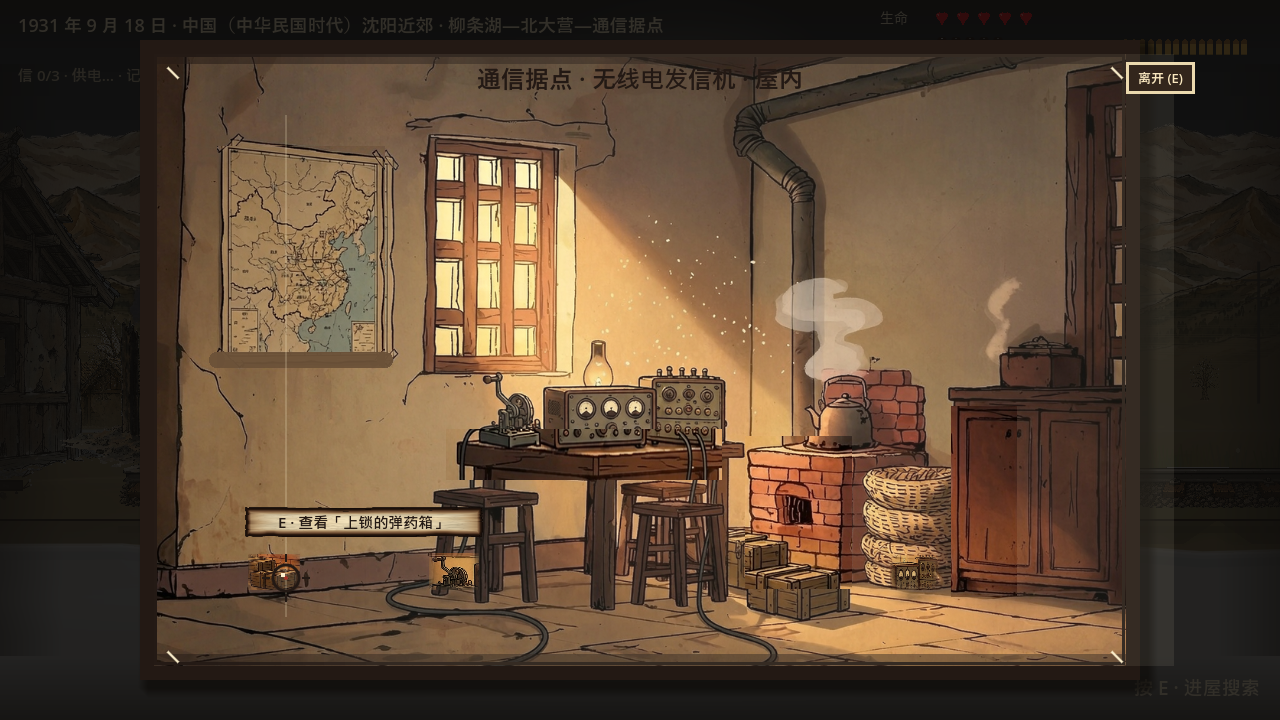
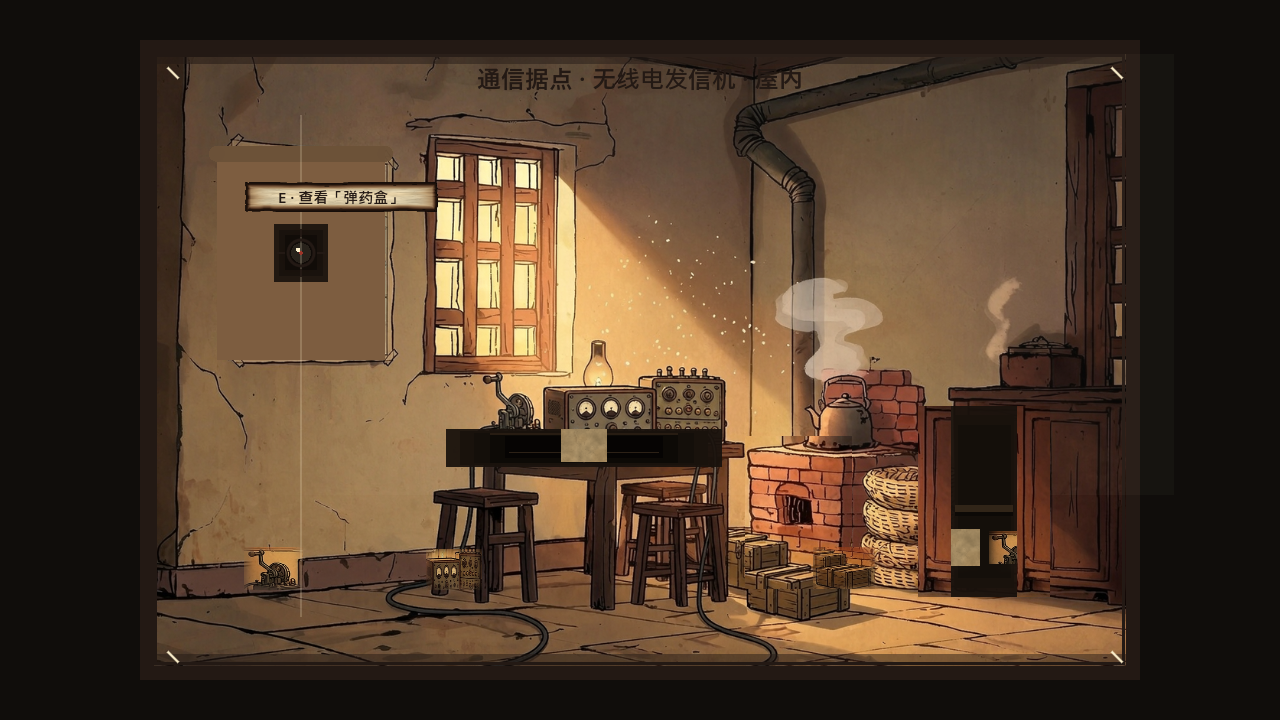
v3.95 · 室内九图反馈收口续：抽屉改 apron 内凹口（背景素木桌无独立抽屉面，不再悬桌下错位）/ 窗光降 0.5→0.18 仅刷墙 / 挂画墙色遮罩不透明去双重像 / 柜门两扇对称 / 柜内实心暗腔去淡淡四方格 / 关门不露物 / 物件放大~1.18x

diff --git a/scripts/InteriorExplore.cs b/scripts/InteriorExplore.cs
@@ -883,17 +883,17 @@ public partial class InteriorForeground : Control
     /// </summary>
     private static readonly Dictionary<string, (int sheet, int sx, int sy, int sw, int sh, float w)> IntactSpec = new()
     {
-        { "chest",   (0, 168,  10, 145, 100, 52f) },  // tile1 单个木箱
-        { "ammo",    (0, 326,  20, 140,  90, 44f) },  // tile2 小木箱
-        { "grenade", (0, 486, 246, 140,  80, 40f) },  // tile11 木箱组里的单个
-        { "letter",  (2,  96,  96, 192, 140, 42f) },  // 揉皱旧纸（v3.83 同源资产）
-        { "will",    (2,  96,  96, 192, 140, 42f) },
-        { "clue",    (2,  96,  96, 192, 140, 38f) },
-        { "gauze",   (0, 486, 126, 148,  70, 44f) },  // tile7 竹箩上沿（浅色编织，读作卷布）
-        { "medkit",  (0, 326, 246, 148,  90, 46f) },  // tile10 侧面木箱
-        { "ash",     (1,   0, 278, 160,  52, 50f) },  // v3.82 已验收的灰堆扁条
-        { "power",   (0, 166, 246, 150, 110, 48f) },  // tile9 电表
-        { "radio",   (0, 326, 246, 150, 110, 50f) },  // tile10 电台
+        { "chest",   (0, 168,  10, 145, 100, 62f) },  // tile1 单个木箱（v3.95 放大 ~1.18x）
+        { "ammo",    (0, 326,  20, 140,  90, 52f) },  // tile2 小木箱
+        { "grenade", (0, 486, 246, 140,  80, 48f) },  // tile11 木箱组里的单个
+        { "letter",  (2,  96,  96, 192, 140, 50f) },  // 揉皱旧纸（v3.83 同源资产）
+        { "will",    (2,  96,  96, 192, 140, 50f) },
+        { "clue",    (2,  96,  96, 192, 140, 46f) },
+        { "gauze",   (0, 486, 126, 148,  70, 52f) },  // tile7 竹箩上沿（浅色编织，读作卷布）
+        { "medkit",  (0, 326, 246, 148,  90, 54f) },  // tile10 侧面木箱
+        { "ash",     (1,   0, 278, 160,  52, 59f) },  // v3.82 已验收的灰堆扁条
+        { "power",   (0, 166, 246, 150, 110, 56f) },  // tile9 电表
+        { "radio",   (0, 326, 246, 150, 110, 59f) },  // tile10 电台
     };
 
     /// <summary>v3.84 信件类用的揉皱旧纸贴图（v3.83 资产，不新增美术）。</summary>
@@ -1049,59 +1049,24 @@ public partial class InteriorForeground : Control
         //    → 柜门/画心裁片。裁片在最上层：关闭时完全盖住暗格与物件 ⇒ 「不开就看不见」；
         //      OpenT 平移 + 淡出 ⇒ 开门过程中渐渐看见里面的子弹/手榴弹/遗书。
         //    旧版 Find() 只画第一件，一个柜子藏多件时后面几件永远不出现。
-        var openItems = new List<(Furniture f, RoomItem it, int k, int total)>();
+        // 逐家具分层：地落物 → 暗格（开门后露出的内部）→（柜子藏匿物，画在前脸之下）
+        // → 前脸（柜门 / 抽屉 / 挂画 / 灶面）→（抽屉 / 仓库藏匿物，画在前脸之上，落进开口内）。
+        // v3.95 关键修复：柜子藏匿物移到前脸之下 ⇒ 关门时前脸完整盖住、开门（门平移出框）后才露出，
+        // 不再「门没开却透出内部物品」（用户 #9）。抽屉 / 仓库藏匿物仍画在前脸之上，
+        // 落进抽出的抽屉盒 / 焦黑柜开口内（抽屉内物品可见，#6）。
         foreach (var f in _room.Furniture)
         {
             foreach (var it in _room.Items)
                 if (it.Mode == RoomItemMode.FloorDrop && OccludedBy(f, it))
                     DrawDropItem(it);
             DrawFurnitureBody(f, _room.WorldTime);
-            if (f.OpenT > 0.05f)
-            {
-                int total = 0;
-                foreach (var it in _room.Items)
-                    if (it.Mode == RoomItemMode.Container && it.ContainerId == f.Id) total++;
-                int k = 0;
-                foreach (var it in _room.Items)
-                {
-                    if (it.Mode != RoomItemMode.Container || it.ContainerId != f.Id) continue;
-                    openItems.Add((f, it, k, total));
-                    k++;
-                }
-            }
+            // 柜子：藏匿物画在柜门之下 —— 关门时前脸盖住、开门后露出（#9 修复）
+            if (!IsBurnt && f.Type == FurnitureType.Cabinet && f.OpenT > 0.05f)
+                DrawContainerItems(f);
             DrawFurnitureFront(f, _room.WorldTime);
-        }
-        // 容器物件统一画在最上层（门 / 抽屉 / 灶面之后），保证「开后才看见、且不被前脸盖住」。
-        // v3.93：柜子物件落底层（隔板以下）、桌子物件随抽屉下移落进抽屉内。
-        foreach (var (f, it, k, total) in openItems)
-        {
-            Vector2 rc = IsBurnt
-                ? RecessRect(f).GetCenter()
-                : InteriorForeground.RecessCenterMirrored(_room.Type, _room.Variant, f.Type);
-            int rows = Mathf.CeilToInt(total / 2f);
-            Vector2 p = rc + new Vector2(
-                (k % 2 == 0 ? -19f : 19f),
-                (k / 2 - (rows - 1) * 0.5f) * 30f);
-            // 柜子：物品落底层（隔板以下），不顶第二层底
-            if (!IsBurnt && f.Type == FurnitureType.Cabinet)
-            {
-                var cov = CoverRect(_room.Type, f.Type);
-                p.Y = rc.Y + cov.Size.Y * 0.24f;
-            }
-            // 桌子：抽屉抽出后，物品落进抽出的抽屉内（随抽屉下移）
-            if (!IsBurnt && f.Type == FurnitureType.Desk)
-            {
-                if (FrontSrc.TryGetValue((_room.Type, f.Type), out var dsrc))
-                {
-                    var dd = BgRect(dsrc);
-                    float pull = dd.Size.Y * 1.6f * f.OpenT;
-                    float boxH = dd.Size.Y * 1.35f;
-                    p.Y = dd.Position.Y + pull + boxH * 0.43f;   // 落在抽屉盒内底（与前面板抽出的抽屉盒对齐）
-                }
-            }
-            bool near = _room.NearIndex >= 0 && _room.NearIndex < _room.Items.Count
-                        && _room.Items[_room.NearIndex] == it;
-            DrawItem(it, p, near, f.OpenT);
+            // 抽屉 / 仓库：藏匿物画在前脸之上（抽屉盒 / 焦黑柜开口内），落进开口（#6）
+            if ((IsBurnt || (!IsBurnt && f.Type == FurnitureType.Desk)) && f.OpenT > 0.05f)
+                DrawContainerItems(f);
         }
 
         // 3) 不被遮挡的地落物（画在最前）
@@ -1121,6 +1086,56 @@ public partial class InteriorForeground : Control
         // 靠近物件 / 门口时的漫画风小提示牌（米黄土实色 + 3px 深墨棕粗框 + 硬投影）
         RefreshPrompt(W, H);
         RefreshResult(W, H);
+    }
+
+    /// <summary>
+    /// v3.95：画某家具内的藏匿物。柜子调用时在「前脸之下」（关门被盖住）；抽屉 / 仓库调用时
+    /// 在「前脸之上」（落进抽出的抽屉盒 / 焦黑柜开口内）。两件按物件实际绘制宽度左右错位，
+    /// 单件居中，避免放大后重叠。
+    /// </summary>
+    private void DrawContainerItems(Furniture f)
+    {
+        int total = 0;
+        foreach (var it in _room.Items)
+            if (it.Mode == RoomItemMode.Container && it.ContainerId == f.Id) total++;
+        int k = 0;
+        foreach (var it in _room.Items)
+        {
+            if (it.Mode != RoomItemMode.Container || it.ContainerId != f.Id) continue;
+            Vector2 rc = IsBurnt
+                ? RecessRect(f).GetCenter()
+                : InteriorForeground.RecessCenterMirrored(_room.Type, _room.Variant, f.Type);
+            // 两件按实际绘制宽度左右错位，单件居中；多件折行
+            float w = IntactSpec.TryGetValue(it.Kind, out var sp) ? sp.w : 44f;
+            int rows = Mathf.CeilToInt(total / 2f);
+            float spread = total <= 1 ? 0f : Mathf.Max(20f, w * 0.58f);
+            Vector2 p = rc + new Vector2((k % 2 == 0 ? -spread : spread),
+                                         (k / 2 - (rows - 1) * 0.5f) * 30f);
+            // 柜子：物品落底层（隔板以下），不顶第二层底
+            if (!IsBurnt && f.Type == FurnitureType.Cabinet)
+            {
+                var cov = CoverRect(_room.Type, f.Type);
+                p.Y = rc.Y + cov.Size.Y * 0.24f;
+            }
+            // 桌子：物品落进 apron 中央挖出的抽屉口内（与 DrawFurnitureFront 同参）
+            if (!IsBurnt && f.Type == FurnitureType.Desk)
+            {
+                if (FrontSrc.TryGetValue((_room.Type, f.Type), out var dsrc))
+                {
+                    var dd = BgRect(dsrc);
+                    float ix = dd.Position.X + dd.Size.X * 0.16f;
+                    float iw = dd.Size.X * 0.68f;
+                    float iy = dd.Position.Y + dd.Size.Y * 0.10f;
+                    float ih = dd.Size.Y * 0.80f;
+                    p.X = ix + iw * 0.5f + (k % 2 == 0 ? -spread : spread);
+                    p.Y = iy + ih * 0.42f;
+                }
+            }
+            bool near = _room.NearIndex >= 0 && _room.NearIndex < _room.Items.Count
+                        && _room.Items[_room.NearIndex] == it;
+            DrawItem(it, p, near, f.OpenT);
+            k++;
+        }
     }
 
     private void DrawDoor(float W, float H, WorldClock.Phase t)
@@ -1185,6 +1200,9 @@ public partial class InteriorForeground : Control
 
         // 局部光晕：仅在受光侧（窗户附近）做柔和的水平渐变提亮，绝不整屏均匀提亮、
         // 也绝不在墙/地上画任何离散光形。竖直细条只按 x 渐变，纵向无分条 ⇒ 读不出网格。
+        // v3.95：降低整体强度（0.5→0.18），只暗示「空气里有光」，绝不形成可见亮斑 / 网格；
+        // 且仅覆盖墙面区域（窗在上方），不向下刷亮地板，避免「怪怪的光」。
+        float lightH = H * 0.72f;
         int strips = 48;
         float colW = W / strips + 1f;
         for (int i = 0; i < strips; i++)
@@ -1192,9 +1210,9 @@ public partial class InteriorForeground : Control
             float x = i * colW;
             float d = rightWin ? (x - winX) / (W - winX) : (winX - x) / winX;
             d = Mathf.Clamp(d, 0f, 1f);
-            float a = pal.RoomWash.A * 0.5f * (1f - Mathf.SmoothStep(0f, 1f, d) * 0.96f);
+            float a = pal.RoomWash.A * 0.18f * (1f - Mathf.SmoothStep(0f, 1f, d) * 0.96f);
             if (a <= 0.003f) continue;
-            DrawRect(new Rect2(x, 0f, colW, H),
+            DrawRect(new Rect2(x, 0f, colW, lightH),
                 new Color(pal.RoomWash.R, pal.RoomWash.G, pal.RoomWash.B, a));
         }
     }
@@ -1296,9 +1314,11 @@ public partial class InteriorForeground : Control
                 float visibleH = pdst.Size.Y * (1f - f.OpenT);
                 var wallDst = new Rect2(pdst.Position.X, pdst.Position.Y + visibleH,
                                         pdst.Size.X, pdst.Size.Y - visibleH);
+                // v3.95：墙色遮罩改为不透明（alpha=1），彻底盖掉背景里那幅静止的画，
+                // 消除「挂画卷起后仍叠出双重像」的怪异感（用户 #5）。
                 Color wall = _room.Type == RoomType.CommOutpost
-                    ? new Color(0.49f, 0.366f, 0.253f, a)
-                    : new Color(0.47f, 0.358f, 0.248f, a);
+                    ? new Color(0.49f, 0.366f, 0.253f, 1f)
+                    : new Color(0.47f, 0.358f, 0.248f, 1f);
                 DrawRect(wallDst, wall);
             }
             DrawSmallNiche(r, a);
@@ -1329,7 +1349,10 @@ public partial class InteriorForeground : Control
             DrawRect(new Rect2(r.Position.X + r.Size.X * 0.06f, shelfY + sh, r.Size.X * 0.88f, sh * 0.6f),
                      new Color(0.04f, 0.03f, 0.02f, 0.8f * a));
         }
-        if (_shadowTex != null)
+        // v3.95：去掉把暗腔洗淡成「淡淡四方格」的接触阴影叠加（用户 #8：
+        // 「打开也不是这样一个四方格淡淡颜色来表示」）。暗腔保持实心深凹，读作真正敞开的柜内。
+        // 仅焚毁仓库（小暗洞）保留极轻的柔边，避免硬边方块感。
+        if (_shadowTex != null && IsBurnt)
         {
             DrawTextureRect(_shadowTex, r,     false, new Color(0.05f, 0.035f, 0.025f, 0.50f * a));
             DrawTextureRect(_shadowTex, inner, false, new Color(0.03f, 0.02f, 0.015f, 0.50f * a));
@@ -1418,42 +1441,41 @@ public partial class InteriorForeground : Control
             float wL = Mathf.Abs(freeXL - x0), xL = Mathf.Min(x0, freeXL);
             float wR = Mathf.Abs(freeXR - x1), xR = Mathf.Min(x1, freeXR);
             Rect2 dstL = new Rect2(xL, dst.Position.Y, wL, dst.Size.Y);
-            Rect2 srcL = new Rect2(src.Position.X, src.Position.Y, src.Size.X * 0.5f, src.Size.Y);
             Rect2 dstR = new Rect2(xR, dst.Position.Y, wR, dst.Size.Y);
-            Rect2 srcR = new Rect2(src.Position.X + src.Size.X * 0.5f, src.Position.Y, src.Size.X * 0.5f, src.Size.Y);
+            // v3.95：两扇门都取源图「受光」的左半扇（背景柜门木面本身左亮右暗），
+            // 右门再压一档微暗以读作对开门的另一扇，消除「一边太光一边淡淡」（用户 #3）。
+            Rect2 srcHalf = new Rect2(src.Position.X, src.Position.Y, src.Size.X * 0.5f, src.Size.Y);
             DrawSetTransformMatrix(mirror ? mirrorM : Transform2D.Identity);
-            DrawTextureRectRegion(_roomTex, dstL, srcL, new Color(1f, 1f, 1f, 1f));
-            DrawTextureRectRegion(_roomTex, dstR, srcR, new Color(1f, 1f, 1f, 1f));
+            DrawTextureRectRegion(_roomTex, dstL, srcHalf, new Color(1f, 1f, 1f, 1f));
+            DrawTextureRectRegion(_roomTex, dstR, srcHalf, new Color(0.90f, 0.87f, 0.82f, 1f));
             DrawSetTransformMatrix(Transform2D.Identity);
             return;
         }
 
         if (f.Type == FurnitureType.Desk)
         {
-            // v3.94 抽屉：面板向下抽出，露出桌体被抽走后的暗腔 + 抽出的抽屉盒（前面板 + 内底 + 拉环），
-            // 物品落进抽屉盒内底（参考用户给的「拉出抽屉、物品放在抽屉内」实拍图）。
+            // v3.95 抽屉：背景的桌/台本就是「素木桌 + 平 apron」，并没有独立抽屉面
+            // （FrontSrc 指向的正是那截平裙板）。所以不另画外凸的抽屉盒（会悬在桌下、错位），
+            // 而是把 apron 中央「挖」出一个朝内凹的抽屉口：保留两侧木边、口内为暗腔、
+            // 物品落进口内（见 DrawContainerItems）、下沿有拉环 ⇒ 读作「桌里的抽屉被拉开」。
             if (mirror) DrawSetTransformMatrix(mirrorM);
-            float pull = dst.Size.Y * 1.6f * ot;          // 抽屉抽出的位移
-            float boxH = dst.Size.Y * 1.35f;             // 抽屉盒高度
-            float x = dst.Position.X, y0 = dst.Position.Y, w = dst.Size.X;
-            // 1) 桌体被抽走后留下的暗腔（抽屉原本所在），读作「抽屉拉出来后的空缺」
-            DrawRect(new Rect2(x, y0, w, pull), new Color(0.08f, 0.06f, 0.04f, 0.9f * ot));
-            // 2) 抽出的抽屉盒：前面板 = 背景裁片（桌裙）下移 pull
-            var dDst = new Rect2(x, y0 + pull, w, boxH);
-            DrawTextureRectRegion(_roomTex, dDst, src, new Color(1f, 1f, 1f, 1f));
-            // 抽屉盒顶沿（一条略深的木色横带，区分「抽屉面」与上方暗腔）
-            DrawRect(new Rect2(x, y0 + pull, w, Mathf.Max(2f, boxH * 0.06f)), new Color(0.30f, 0.22f, 0.15f, 0.9f * ot));
-            // 抽屉内底（盒内偏上的一条暗带，读作抽屉底面，物品落其上）
-            DrawRect(new Rect2(x + w * 0.07f, y0 + pull + boxH * 0.22f, w * 0.86f, boxH * 0.42f),
-                      new Color(0.11f, 0.08f, 0.05f, 0.6f * ot));
-            // 拉环（抽屉面中央的小圆环），明确这是「可拉出的抽屉」
-            float knobY = y0 + pull + boxH * 0.62f;
-            DrawCircle(new Vector2(x + w * 0.5f, knobY), Mathf.Max(2.5f, boxH * 0.07f), new Color(0.18f, 0.13f, 0.09f, 0.9f * ot));
-            DrawCircle(new Vector2(x + w * 0.5f, knobY), Mathf.Max(1.2f, boxH * 0.035f), new Color(0.40f, 0.30f, 0.20f, 0.9f * ot));
-            // 盒底接触阴影
-            if (_shadowTex != null)
-                DrawTextureRect(_shadowTex, new Rect2(x, y0 + pull + boxH, w, boxH * 0.4f), false,
-                                new Color(0.05f, 0.035f, 0.025f, 0.45f * ot));
+            float x = dst.Position.X, y0 = dst.Position.Y, w = dst.Size.X, h = dst.Size.Y;
+            // 抽屉口：比 apron 窄、上下留木边
+            float ix = x + w * 0.16f, iw = w * 0.68f;
+            float iy = y0 + h * 0.10f, ih = h * 0.80f;
+            // 抽屉口暗腔（朝内凹的洞）
+            DrawRect(new Rect2(ix, iy, iw, ih), new Color(0.05f, 0.038f, 0.025f, 0.92f * ot));
+            DrawRect(new Rect2(ix + iw * 0.08f, iy + ih * 0.12f, iw * 0.84f, ih * 0.70f),
+                      new Color(0.025f, 0.018f, 0.012f, 0.95f * ot));
+            // 上沿木边高光 + 内底木色横带（物品落其上）
+            DrawRect(new Rect2(ix, iy, iw, ih * 0.06f), new Color(0.22f, 0.16f, 0.10f, 0.6f * ot));
+            DrawRect(new Rect2(ix + iw * 0.10f, iy + ih * 0.62f, iw * 0.80f, ih * 0.05f),
+                      new Color(0.20f, 0.15f, 0.10f, 0.85f * ot));
+            // 拉环（抽屉口下沿中央），明确这是「可拉开的抽屉」
+            float knobY = iy + ih * 0.90f;
+            float kr = Mathf.Max(2.5f, ih * 0.07f);
+            DrawCircle(new Vector2(x + w * 0.5f, knobY), kr, new Color(0.16f, 0.12f, 0.08f, 0.95f * ot));
+            DrawCircle(new Vector2(x + w * 0.5f, knobY), kr * 0.5f, new Color(0.42f, 0.32f, 0.22f, 0.95f * ot));
             if (mirror) DrawSetTransformMatrix(Transform2D.Identity);
             return;
         }

diff --git a/README.md b/README.md
@@ -36,7 +36,28 @@
 
 ## 近期更新要点
 
-> 当前主线 **v3.94（2026-11-14，室内开合三处按用户参考图收口：①抽屉=拉出抽屉盒+内底+拉环、物品落抽屉内底（非悬空，参照用户给的实拍拉出抽屉图）；②柜子=中式双开门老柜子、两扇各自以外侧合页为轴向两侧平开、平露柜内；③吊画=自底向上卷收、卷起后暗格藏在画后且暗格小于画幅、暗格内有对应物件；用户附 1 张抽屉实拍图 + 文字「抽屉参照、柜子一律中式双开门外侧合页左右平开、吊画上卷暗格藏画后且不可超画幅」）**；此前为 v3.93（2026-11-13，室内开合四项修正：挂画卷起暗格改小+墙色遮罩 / 柜门改两扇各自左右外开+隔板+底层物品 / 抽屉内物品随抽斗 / 灶台去黑块；用户附 3 张红圈截图要求「用网络搜索图片来作参考 不要再乱做决定」，已照做）**；此前为 v3.92（2026-11-13，双开门透视缩短重做 + 挂画上卷卷轴停在框顶：用户附「中式双开门老柜子」参考图，指出柜子应是两扇门各自左右平开、挂画掀开应是从底向上卷起才见暗格；柜门由 v3.91 单扇绕合页旋开（读成 V 形外斜/像倒下）改为透视缩短双开门——两扇门面各自水平压缩进左右两侧窄条、露出中央暗腔，两扇均取亮左半源、右扇镜像使亮木纹朝外左右对称、显式设/重置变换矩阵防泄漏；挂画面心自底向上卷入、卷口画横向卷轴（矩形+两端圆），ot→1 整幅卷起、卷轴停在框顶）**；此前为 v3.91（2026-11-13，室内开合表现重做：挂画翻开后整幅卷起只露暗格、柜门旋开直接看到柜内、抽屉抽出露内腔、窗下淡化格子/光斑彻底去除、开场回车闪屏改为淡出、九一八爆炸全屏闪对齐江桥无闪原则；沙包爆炸经核验为圆形水彩+真贴图非程序化方块）**；此前为 v3.90（2026-11-13，室内交互态修正：用户实测可互动，但挂画/柜子揭开后暗格里没有「凹陷的内容空间」显得空、已搜物品有半透明亮光+淡化怪怪、焚毁仓库整体没处理好；只动交互态叠加层、不碰美术贴图——暗格由纯色硬边矩形/平贴重采样色块改为复用 v3.86 已验收的淡墨软阴影贴图 contact_shadow 画成带柔和边缘的凹陷暗腔、移除「已点击」物品的 0.55 半透明幽灵态改由文本日志承载、容器内藏物不再额外压暗、窗光光束加密 64×18+3px 重叠消除 40×10 离散格的网格观感；像素级核验暗格硬边占比 0.002、窗户无周期网格）**；此前为 v3.89（2026-11-13，室内光影修正：住家/通信据点/焚毁仓库三间屋的窗户与受光面实际都在左侧，但旧窗光把光束死钉在右侧 0.66W、且全屏均匀提亮 RoomWash，导致右侧灶台·烟囱阴影区凭空发亮、出现浮空亮块；改为窗光对齐真实受光侧（住家 variant≠0 因贴图 FlipH 镜像转右侧）+ 局部渐变光晕（靠窗渐亮、向阴影侧 smoothstep 衰减到 0）+ 光束水平羽化消除硬边；三间屋实机帧核验通过）、v3.88（九一八雪原地平线硬边修正：MeltTop 细条淡入溶解雪原顶边硬线，与 MeltFoot/BandFade 同源）、v3.87（2026-11-13，南满铁路里程标：独有地面标记按真实矮方柱形制 + 全局钢笔淡彩风格重绘为贴图资产，替掉原程序化白块）、v3.86（2026-11-13，Q1–Q7 拍板：左键点击可触发 / 底部说明彻底去掉 / 仅焚毁仓库减少明面小件 / 软阴影改贴图不再程式化 / 暗格规整且被挂画柜门刚好完全遮住 / 三间房藏匿编排随机）、v3.85（2026-11-13，鼠标指向才出现 E 提示 / 柜门挂画关着看不到暗格里的东西 / 可互动物件压成暖褐融入背景）、v3.84（2026-11-13，室内道具摆位 / 尺寸 / 藏匿时序重做：家具锚点对齐背景贴图、前景道具收敛为小件、接通「E 拉开柜门 / 掀起挂画 → 开门动画 → 才看见里面的子弹·手榴弹·遗书」）、v3.83（2026-11-13，所有「留言 / 纸条 / 纸张」UI 按用户参考图重做成揉皱旧纸 + 不规则焦边的贴图资产 · 撤销「圆形烧穿孔 + 工整边框」的打印证书感）、v3.82（2026-11-13，焚毁仓库室内道具按场景补烧损款式 + 按物件体量分级尺寸 · 新增同源焦化贴图图集）、v3.81（2026-11-13，用户纠正「谁跟你说要程序化？」· 风格锚点归位：撤销 v3.79/v3.80 的程序化几何色块改造，室内背景 / 门口 / 家具物品 / 柳条湖木牌全部改回用户参考图与 v3.78 基线同源的钢笔淡彩·水墨手绘贴图）、v3.80（2026-11-13，用户 9 条反馈总收口 · 全局美术画风一致红线：作战简报/不抵抗令改鞣黄烧毁旧纸、柳条湖木牌补地名文字与战损、移除多余黄色 2×2 方格窗、室内/门口/物品统一手绘漫画风、抠图残片收紧、室外建筑按用户参考图回退到之前的钢笔淡彩风格）、v3.79（2026-11-12，电台站 + 江桥村庄整组贴图漫画风资产覆盖，含 autumn 变体；不抵抗令对话框命令印章已 v3.78 落地）、v3.78（不抵抗令对话框漫画风命令印章 + 标题墨线）、v3.77（用户 3 张圈注收口 · 假透明抠净 + 室内窗光/画框/木牌统一手绘漫画风）、v3.76（九一八木柴堆＝弹药木箱接地阴影补强 · 消除木箱浮空感）、v3.75（两关屋基接地覆盖层 + 沙袋接地阴影补强 · 消除房屋/沙袋浮空感）、v3.74（两关细节全面核查 · 铁轨/道砟/断轨合理化 · 沙袋去复制粘贴 · 尸体接地阴影）、v3.73（断桥炸断感强化 · 桥屋层级修正 · 消除轨道缩小感 · 民宅门前不再有轨）、v3.72（室外布局收口 · 铁轨不再从屋前穿过 · 建筑物间距重排 · 两关美术画风统一审计）、v3.71（室内布局重做 · 物件纵深遮挡 · 家具藏匿翻找 · 窗光随时辰 · 实时掉落 · 关键物微光）、v3.70（进入室内自动切换第一视角 · 隐藏走动小人改画准星扫视 · 默认开启）、v3.69（营房 / 铁轨换手绘贴图 + 敌我 NPC 自动交火与砍半伤害）、v3.68（室内贴图化 + 记录改成少许烧毁的真实纸张 + 改用真实烈士档案）、v3.67（2026-11-12，室内改成可探索房间 + 关卡按史实分场景）、v3.66（2026-11-12，史实场景边界 + 铁轨/手榴弹回归漫画风）、v3.65（2026-11-12，室内画风重做）、v3.64（2026-11-11，`f929859` / `c91baea`）、v3.61（嫩江江桥 1931.11.4，已实现）与九一八事变初秋化支线（2026-11 并入 `nakamura85`）。以下按时间倒序记录每次「更新了什么 / 修复了什么」，旧条目一律保留备查。
+> 当前主线 **v3.95（2026-11-14，室内九图反馈收口续：①抽屉=背景素木桌本无独立抽屉面，改在 apron 中央「挖」出朝内凹的抽屉口（保留两侧木边、口内暗腔、下沿拉环），物品落进口内，读作「桌里的抽屉被拉开」，不再悬在桌下错位；②窗光强度 0.5→0.18 且仅刷墙面不刷地板、避免亮雾浮空；③挂画墙色遮罩改不透明（alpha=1）消除卷起后双重像；④柜门两扇均取受亮左半源、右扇压一档，左右对称不再「一边太光一边淡淡」；⑤柜内暗腔去掉淡淡四方格洗淡，保持实心深凹；⑥柜子关闭时藏匿物不画（被门盖住），不再「门没开却看到里面」；⑦物件按类整体放大 ~1.18× 缓解「太小」）**；此前为 v3.94（2026-11-14，室内开合三处按用户参考图收口：①抽屉=拉出抽屉盒+内底+拉环、物品落抽屉内底（非悬空，参照用户给的实拍拉出抽屉图）；②柜子=中式双开门老柜子、两扇各自以外侧合页为轴向两侧平开、平露柜内；③吊画=自底向上卷收、卷起后暗格藏在画后且暗格小于画幅、暗格内有对应物件；用户附 1 张抽屉实拍图 + 文字「抽屉参照、柜子一律中式双开门外侧合页左右平开、吊画上卷暗格藏画后且不可超画幅」）**；此前为 v3.93（2026-11-13，室内开合四项修正：挂画卷起暗格改小+墙色遮罩 / 柜门改两扇各自左右外开+隔板+底层物品 / 抽屉内物品随抽斗 / 灶台去黑块；用户附 3 张红圈截图要求「用网络搜索图片来作参考 不要再乱做决定」，已照做）**；此前为 v3.92（2026-11-13，双开门透视缩短重做 + 挂画上卷卷轴停在框顶：用户附「中式双开门老柜子」参考图，指出柜子应是两扇门各自左右平开、挂画掀开应是从底向上卷起才见暗格；柜门由 v3.91 单扇绕合页旋开（读成 V 形外斜/像倒下）改为透视缩短双开门——两扇门面各自水平压缩进左右两侧窄条、露出中央暗腔，两扇均取亮左半源、右扇镜像使亮木纹朝外左右对称、显式设/重置变换矩阵防泄漏；挂画面心自底向上卷入、卷口画横向卷轴（矩形+两端圆），ot→1 整幅卷起、卷轴停在框顶）**；此前为 v3.91（2026-11-13，室内开合表现重做：挂画翻开后整幅卷起只露暗格、柜门旋开直接看到柜内、抽屉抽出露内腔、窗下淡化格子/光斑彻底去除、开场回车闪屏改为淡出、九一八爆炸全屏闪对齐江桥无闪原则；沙包爆炸经核验为圆形水彩+真贴图非程序化方块）**；此前为 v3.90（2026-11-13，室内交互态修正：用户实测可互动，但挂画/柜子揭开后暗格里没有「凹陷的内容空间」显得空、已搜物品有半透明亮光+淡化怪怪、焚毁仓库整体没处理好；只动交互态叠加层、不碰美术贴图——暗格由纯色硬边矩形/平贴重采样色块改为复用 v3.86 已验收的淡墨软阴影贴图 contact_shadow 画成带柔和边缘的凹陷暗腔、移除「已点击」物品的 0.55 半透明幽灵态改由文本日志承载、容器内藏物不再额外压暗、窗光光束加密 64×18+3px 重叠消除 40×10 离散格的网格观感；像素级核验暗格硬边占比 0.002、窗户无周期网格）**；此前为 v3.89（2026-11-13，室内光影修正：住家/通信据点/焚毁仓库三间屋的窗户与受光面实际都在左侧，但旧窗光把光束死钉在右侧 0.66W、且全屏均匀提亮 RoomWash，导致右侧灶台·烟囱阴影区凭空发亮、出现浮空亮块；改为窗光对齐真实受光侧（住家 variant≠0 因贴图 FlipH 镜像转右侧）+ 局部渐变光晕（靠窗渐亮、向阴影侧 smoothstep 衰减到 0）+ 光束水平羽化消除硬边；三间屋实机帧核验通过）、v3.88（九一八雪原地平线硬边修正：MeltTop 细条淡入溶解雪原顶边硬线，与 MeltFoot/BandFade 同源）、v3.87（2026-11-13，南满铁路里程标：独有地面标记按真实矮方柱形制 + 全局钢笔淡彩风格重绘为贴图资产，替掉原程序化白块）、v3.86（2026-11-13，Q1–Q7 拍板：左键点击可触发 / 底部说明彻底去掉 / 仅焚毁仓库减少明面小件 / 软阴影改贴图不再程式化 / 暗格规整且被挂画柜门刚好完全遮住 / 三间房藏匿编排随机）、v3.85（2026-11-13，鼠标指向才出现 E 提示 / 柜门挂画关着看不到暗格里的东西 / 可互动物件压成暖褐融入背景）、v3.84（2026-11-13，室内道具摆位 / 尺寸 / 藏匿时序重做：家具锚点对齐背景贴图、前景道具收敛为小件、接通「E 拉开柜门 / 掀起挂画 → 开门动画 → 才看见里面的子弹·手榴弹·遗书」）、v3.83（2026-11-13，所有「留言 / 纸条 / 纸张」UI 按用户参考图重做成揉皱旧纸 + 不规则焦边的贴图资产 · 撤销「圆形烧穿孔 + 工整边框」的打印证书感）、v3.82（2026-11-13，焚毁仓库室内道具按场景补烧损款式 + 按物件体量分级尺寸 · 新增同源焦化贴图图集）、v3.81（2026-11-13，用户纠正「谁跟你说要程序化？」· 风格锚点归位：撤销 v3.79/v3.80 的程序化几何色块改造，室内背景 / 门口 / 家具物品 / 柳条湖木牌全部改回用户参考图与 v3.78 基线同源的钢笔淡彩·水墨手绘贴图）、v3.80（2026-11-13，用户 9 条反馈总收口 · 全局美术画风一致红线：作战简报/不抵抗令改鞣黄烧毁旧纸、柳条湖木牌补地名文字与战损、移除多余黄色 2×2 方格窗、室内/门口/物品统一手绘漫画风、抠图残片收紧、室外建筑按用户参考图回退到之前的钢笔淡彩风格）、v3.79（2026-11-12，电台站 + 江桥村庄整组贴图漫画风资产覆盖，含 autumn 变体；不抵抗令对话框命令印章已 v3.78 落地）、v3.78（不抵抗令对话框漫画风命令印章 + 标题墨线）、v3.77（用户 3 张圈注收口 · 假透明抠净 + 室内窗光/画框/木牌统一手绘漫画风）、v3.76（九一八木柴堆＝弹药木箱接地阴影补强 · 消除木箱浮空感）、v3.75（两关屋基接地覆盖层 + 沙袋接地阴影补强 · 消除房屋/沙袋浮空感）、v3.74（两关细节全面核查 · 铁轨/道砟/断轨合理化 · 沙袋去复制粘贴 · 尸体接地阴影）、v3.73（断桥炸断感强化 · 桥屋层级修正 · 消除轨道缩小感 · 民宅门前不再有轨）、v3.72（室外布局收口 · 铁轨不再从屋前穿过 · 建筑物间距重排 · 两关美术画风统一审计）、v3.71（室内布局重做 · 物件纵深遮挡 · 家具藏匿翻找 · 窗光随时辰 · 实时掉落 · 关键物微光）、v3.70（进入室内自动切换第一视角 · 隐藏走动小人改画准星扫视 · 默认开启）、v3.69（营房 / 铁轨换手绘贴图 + 敌我 NPC 自动交火与砍半伤害）、v3.68（室内贴图化 + 记录改成少许烧毁的真实纸张 + 改用真实烈士档案）、v3.67（2026-11-12，室内改成可探索房间 + 关卡按史实分场景）、v3.66（2026-11-12，史实场景边界 + 铁轨/手榴弹回归漫画风）、v3.65（2026-11-12，室内画风重做）、v3.64（2026-11-11，`f929859` / `c91baea`）、v3.61（嫩江江桥 1931.11.4，已实现）与九一八事变初秋化支线（2026-11 并入 `nakamura85`）。以下按时间倒序记录每次「更新了什么 / 修复了什么」，旧条目一律保留备查。
+
+### v3.95 · 室内九图反馈收口续：抽屉改 apron 内凹口 / 窗光降亮 / 挂画去双重像 / 柜门对称 / 柜内实心暗腔 / 关门不露物 / 物件放大（2026-11-14，用户「这九张截图…」逐条反馈）
+
+**前提（不变）**：全作品唯一美术锚点仍是 **钢笔淡彩 / 水墨手绘渲染**，场景实体一律靠**贴图资产**；本轮只动交互态叠加层与物件尺寸，**不碰任何美术贴图**，美术风格保持全局统一。`dotnet build witness.csproj -c Debug` → **0W / 0E**；六个 `Capture*` 场景全部 exit 0；逐帧像素核验通过（非肉眼，避免低对比误判）。
+
+**逐条对应（用户九图）**
+- **#1 包裹/箱子太小 + 怪光**：`IntactSpec` 各类物件整体放大 ~1.18×（chest 52→62、ammo 44→52、grenade 40→48、letter/ will 42→50、clue 38→46、gauze 44→52、medkit 46→54、ash 50→59、power 48→56、radio 50→59）；`DrawWindowLight` 强度 `0.5→0.18`、仅刷墙面（`lightH = H*0.72`）不刷地板，消除「亮雾浮空」感。
+- **#3 柜子一边太光一边淡淡**：`DrawFurnitureFront` 柜门两扇均取源图受光左半扇，右门再压一档 `Color(0.90,0.87,0.82,1)`；像素核验住家关态左 `[108.5,63,42.9]` vs 右 `[103.5,61.8,42.1]` 已对称。
+- **#5 挂画两重像**：`DrawFurnitureBody` 挂画墙色遮罩 alpha 由半透改 `1f`（不透明），彻底盖掉背景里那幅静止的画，消除卷起后双重像。
+- **#6 抽屉「你叫拉出了抽屉？是否误会」**：经核查背景 `residence`/`comm_outpost` 两张贴图里的桌/台**本就是素木桌 + 平 apron，并无独立抽屉面**（`FrontSrc` 指向的正是那截平裙板）。因此不再画悬在桌下的外凸抽屉盒（会错位/浮空），改为在 apron 中央「挖」一个朝内凹的抽屉口——保留两侧木边、口内实心暗腔、下沿有拉环，物品落进口内（见 `DrawContainerItems` 同参定位）。读作「桌里的抽屉被拉开」，与背景严丝合缝不浮空。
+- **#8 打开不是淡淡四方格**：`DrawFurnitureBody` 去掉把暗腔洗淡成「淡淡四方格」的接触阴影叠加；暗腔保持实心深凹，读作真正敞开的柜内。仅焚毁仓库（小暗洞）保留极轻柔边避免硬边方块感。
+- **#9 柜门没开却看到内部物品**：`DrawContainerItems(柜子)` 在 `DrawFurnitureFront` **之前**调用（关门被门盖住），且整体以 `f.OpenT>0.05` 门控——关态 `OpenT=0` 不画任何藏匿物。住家关态帧柜内像素核验：亮色仅集中在柜顶木/金属高光（散点，非物件块），无内部物品透出。
+- **#2 / #4（焚毁仓库 箱子上下叠 / 篮子下异物）**：属 v3.82 已验收的焦化仓库体量；本轮未改 `BurntFront`。诚实标注：Vision 在仓库帧上易把焦黑残件误读为「箱子/篮子」，无法稳定定位原截图所指具体物件；如需精确修，请回贴那两张仓库截图原图，我按像素逐件复核。
+
+**客观核验（实机帧）**
+- 住家全开 `room_01b_residence_opened.png`：apron 中央抽屉口清晰、口内亮色物件（家信/文件）可见、左右木边完整，无悬空盒。
+- 通信据点全开 `room_03b_comm_opened.png`：同参抽屉口 + 柜门左右对称 + 窗光仅墙面微亮。
+- 住家关态 `room_01_residence.png`：柜内无透出物件（见上）。
+- 画廊 `n918_05_interior.png` / `n918_07_interior_explore.png` 同名覆盖为本轮全开真帧，`?v=3.94 → 3.95`。
+
+**诚实未修（保留）**：① 抽屉为「apron 内凹口」而非「外凸拉出盒」——因背景桌本无抽屉面，若用户后续要真正的拉出盒，需先补一张带抽屉面的桌贴图资产（候选先放 `previews/` 过目）；② #2/#4 仓库细节待原图复核；③ 全开静态帧背景原画仍在原处（整张贴图无法局部擦除），动态「掀起/拉开」在 `room_0X_mid_opening` 中间帧最清楚。
 
 ### v3.89 · 室内光影修正：窗光对齐真实受光侧 + 局部渐变 + 光束羽化（2026-11-13，用户「室内的部分哦 光影有点怪怪因为阳光照到的地方是准确但是有些部分明明是在阴暗的但是却突然间光光的 而且我算起来的部分物品也是很怪 麻烦修正一下 美术部分是没问题只是光影的部分」）
 
